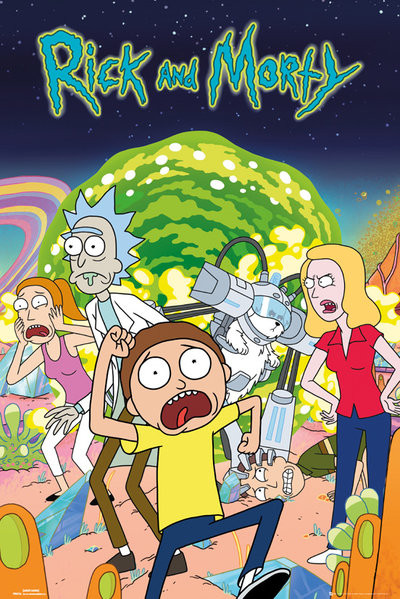
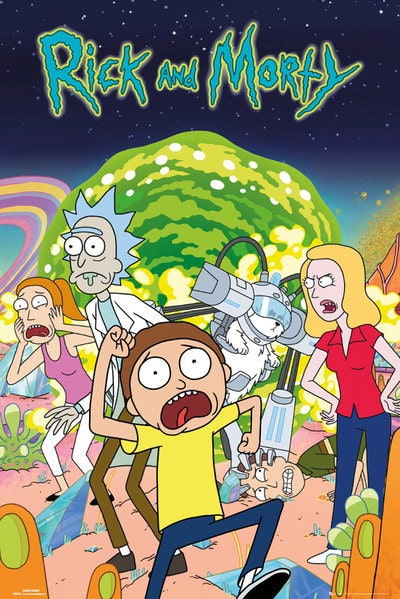
Optimized images

diff --git a/public/index.html b/public/index.html
@@ -2,7 +2,7 @@
 <html lang="en">
   <head>
     <meta charset="utf-8" />
-    <link rel="icon" href="%PUBLIC_URL%/favicon-new.jpg" />
+    <link rel="icon" href="%PUBLIC_URL%/favicon-new.png" />
     <style>
       @import url('https://fonts.googleapis.com/css2?family=Fredoka+One&display=swap');
     </style>
